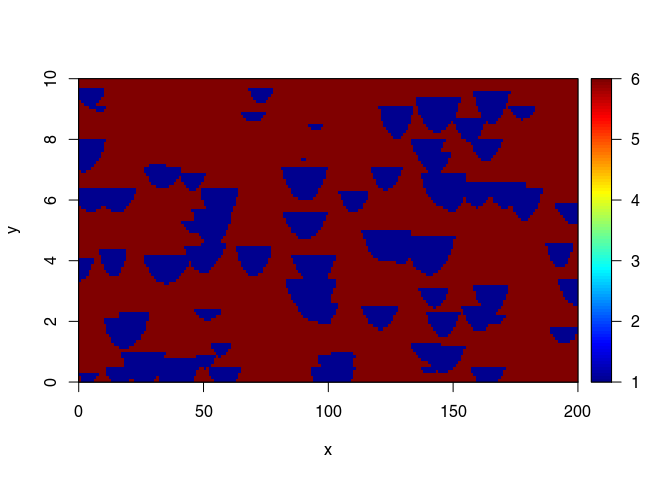
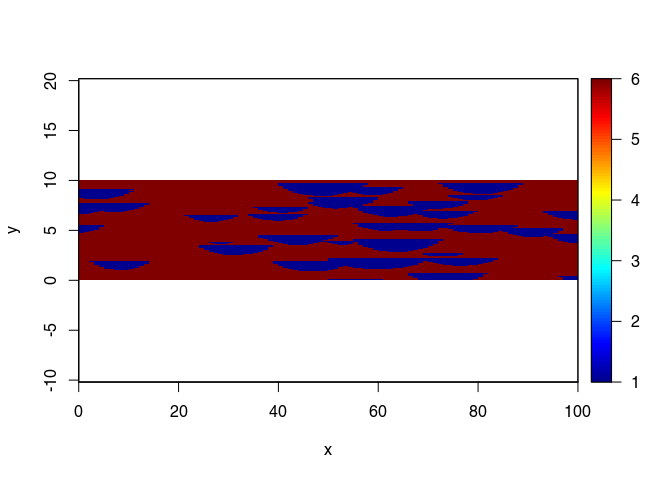
small changes tutorial

diff --git a/README.md b/README.md
@@ -1,6 +1,6 @@
 # CBRDM - Coarse Braided River Deposit Model
 Emanuel Huber  
-`r format(Sys.time(), '%Y-%m-%d')`  
+2018-03-06  
 
 
 
@@ -239,14 +239,15 @@ RConics::addLine(l,  col = "green", lwd = 4)
     ```r
     library(plot3D)
     # horizontal section
-    plot3D::image2D(PIX$XYZ[,, 50], x = PIX$x, y = PIX$y)
+    plot3D::image2D(PIX$XYZ[,, 50], x = PIX$x, y = PIX$y, asp = 1)
     ```
     
     ![](README_files/figure-html/plot3D-1.png)<!-- -->
     
     ```r
     # vertical section at x = 50.5
-    plot3D::image2D(PIX$XYZ[which(PIX$x == 50.5),,], x = PIX$y, y = PIX$z)
+    plot3D::image2D(PIX$XYZ[which(PIX$x == 50.5),,], x = PIX$y, y = PIX$z,
+                    asp = 1)
     ```
     
     ![](README_files/figure-html/plot3D-2.png)<!-- -->
@@ -263,14 +264,15 @@ RConics::addLine(l,  col = "green", lwd = 4)
     FAC <- setProp(PIX$XYZ, type = c("facies"))
     
     # horizontal section
-    plot3D::image2D(FAC[,, 50], x = PIX$x, y = PIX$y)
+    plot3D::image2D(FAC[,, 50], x = PIX$x, y = PIX$y, asp = 1)
     ```
     
     ![](README_files/figure-html/FAC-1.png)<!-- -->
     
     ```r
     # vertical section at x = 50.5
-    plot3D::image2D(FAC[which(PIX$x == 50.5),,], x = PIX$y, y = PIX$z)
+    plot3D::image2D(FAC[which(PIX$x == 50.5),,], x = PIX$y, y = PIX$z, 
+                    asp = 1)
     ```
     
     ![](README_files/figure-html/FAC-2.png)<!-- -->
@@ -303,14 +305,15 @@ RConics::addLine(l,  col = "green", lwd = 4)
     HK <- setProp(PIX$XYZ, type = c("K"), fprop = faciesProp)
     
     # horizontal section
-    plot3D::image2D(HK[,, 50], x = PIX$x, y = PIX$y)
+    plot3D::image2D(HK[,, 50], x = PIX$x, y = PIX$y, asp = 1)
     ```
     
     ![](README_files/figure-html/HK-1.png)<!-- -->
     
     ```r
     # vertical section at x = 50.5
-    plot3D::image2D(HK[which(PIX$x == 50.5),,], x = PIX$y, y = PIX$z)
+    plot3D::image2D(HK[which(PIX$x == 50.5),,], x = PIX$y, y = PIX$z,
+                    asp = 1)
     ```
     
     ![](README_files/figure-html/HK-2.png)<!-- -->
@@ -322,14 +325,15 @@ RConics::addLine(l,  col = "green", lwd = 4)
     VANI <- setProp(PIX$XYZ, type = c("Kvani"), fprop = faciesProp)
     
     # horizontal section
-    plot3D::image2D(VANI[,, 50], x = PIX$x, y = PIX$y)
+    plot3D::image2D(VANI[,, 50], x = PIX$x, y = PIX$y, asp = 2)
     ```
     
     ![](README_files/figure-html/VANI-1.png)<!-- -->
     
     ```r
     # vertical section at x = 50.5
-    plot3D::image2D(VANI[which(PIX$x == 50.5),,], x = PIX$y, y = PIX$z)
+    plot3D::image2D(VANI[which(PIX$x == 50.5),,], x = PIX$y, y = PIX$z, 
+                    asp = 1)
     ```
     
     ![](README_files/figure-html/VANI-2.png)<!-- -->
@@ -340,14 +344,15 @@ RConics::addLine(l,  col = "green", lwd = 4)
     PORO <- setProp(PIX$XYZ, type = c("p"), fprop = faciesProp)
     
     # horizontal section
-    plot3D::image2D(PORO[,, 50], x = PIX$x, y = PIX$y)
+    plot3D::image2D(PORO[,, 50], x = PIX$x, y = PIX$y, asp = 1)
     ```
     
     ![](README_files/figure-html/PORO-1.png)<!-- -->
     
     ```r
     # vertical section at x = 50.5
-    plot3D::image2D(PORO[which(PIX$x == 50.5),,], x = PIX$y, y = PIX$z)
+    plot3D::image2D(PORO[which(PIX$x == 50.5),,], x = PIX$y, y = PIX$z, 
+                    asp = 1)
     ```
     
     ![](README_files/figure-html/PORO-2.png)<!-- -->
